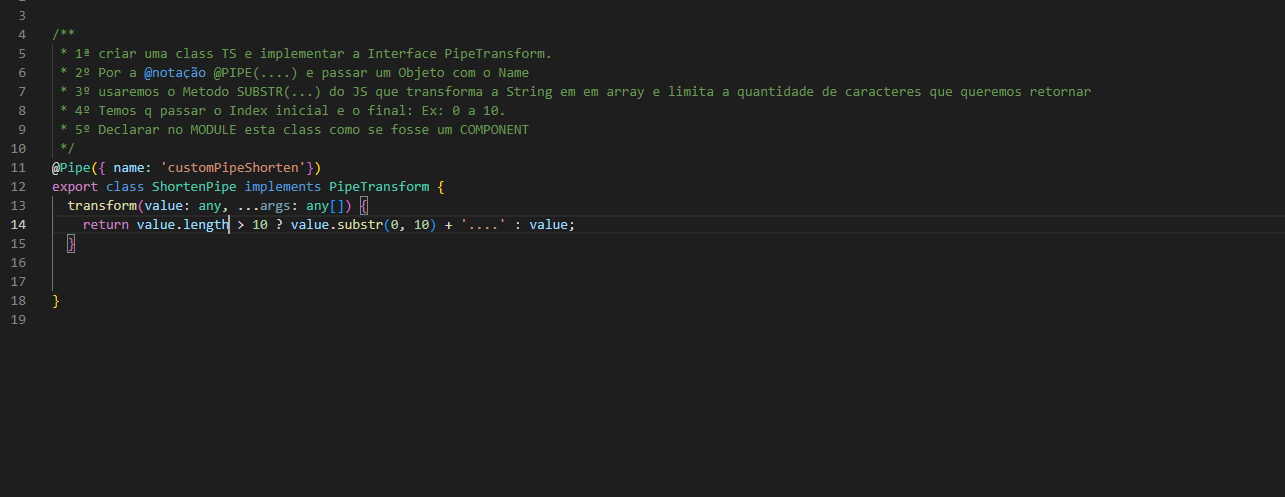
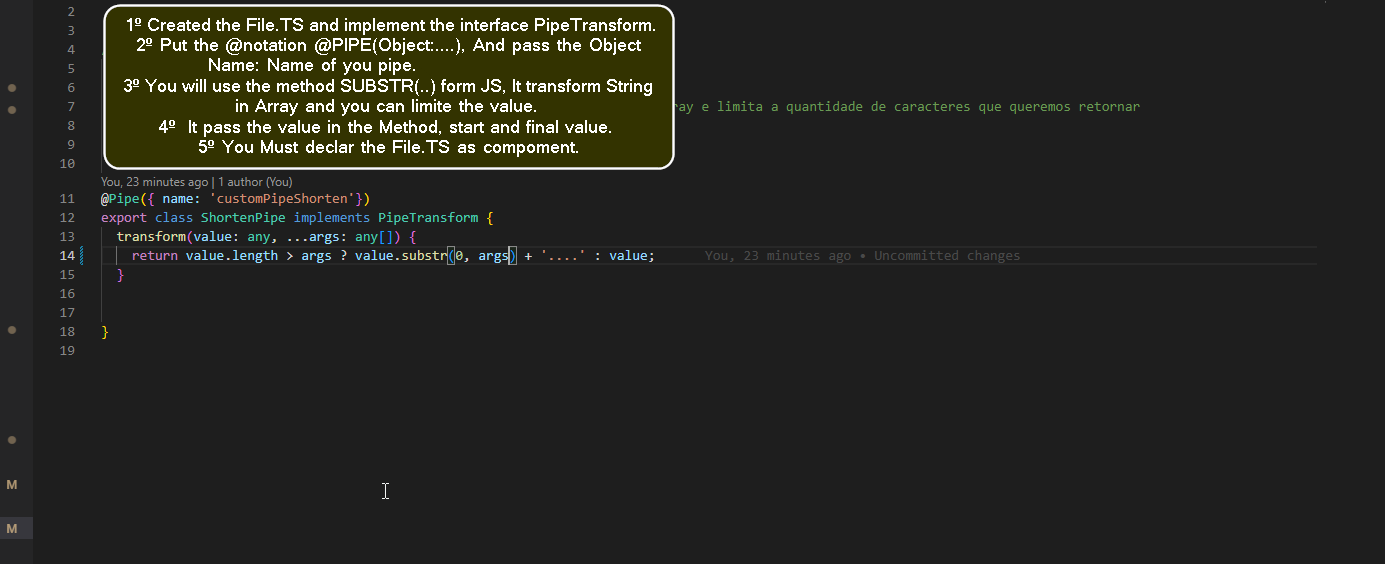
advanced

diff --git a/angular_training/src/app/pipes/pipes.component.html b/angular_training/src/app/pipes/pipes.component.html
@@ -29,6 +29,14 @@
                  Custom Pipes
                 </a>
               </li>
+              <li class="nav-item">
+                <a class="nav-link" routerLink="/pipes/pipes-customs-advanced">
+                  <svg xmlns="http://www.w3.org/2000/svg" width="16" height="16" fill="currentColor" class="bi bi-braces-asterisk" viewBox="0 0 16 16">
+                    <path fill-rule="evenodd" d="M1.114 8.063V7.9c1.005-.102 1.497-.615 1.497-1.6V4.503c0-1.094.39-1.538 1.354-1.538h.273V2h-.376C2.25 2 1.49 2.759 1.49 4.352v1.524c0 1.094-.376 1.456-1.49 1.456v1.299c1.114 0 1.49.362 1.49 1.456v1.524c0 1.593.759 2.352 2.372 2.352h.376v-.964h-.273c-.964 0-1.354-.444-1.354-1.538V9.663c0-.984-.492-1.497-1.497-1.6ZM14.886 7.9v.164c-1.005.103-1.497.616-1.497 1.6v1.798c0 1.094-.39 1.538-1.354 1.538h-.273v.964h.376c1.613 0 2.372-.759 2.372-2.352v-1.524c0-1.094.376-1.456 1.49-1.456v-1.3c-1.114 0-1.49-.362-1.49-1.456V4.352C14.51 2.759 13.75 2 12.138 2h-.376v.964h.273c.964 0 1.354.444 1.354 1.538V6.3c0 .984.492 1.497 1.497 1.6ZM7.5 11.5V9.207l-1.621 1.621-.707-.707L6.792 8.5H4.5v-1h2.293L5.172 5.879l.707-.707L7.5 6.792V4.5h1v2.293l1.621-1.621.707.707L9.208 7.5H11.5v1H9.207l1.621 1.621-.707.707L8.5 9.208V11.5h-1Z"/>
+                  </svg>
+                 Advanced Custom Pipes
+                </a>
+              </li>
 
 
             </ul>

diff --git a/angular_training/src/app/pipes/pipes.module.ts b/angular_training/src/app/pipes/pipes.module.ts
@@ -1,10 +1,11 @@
-import { ShortenPipe } from './pipes-customs/shorten-pipes.component';
+import { ShortenPipe } from './shorten-pipes.component';
 import { RouterModule } from '@angular/router';
 import { NgModule } from '@angular/core';
 import { CommonModule } from '@angular/common';
 import { PipesComponent } from './pipes.component';
 import { PipesBasicComponent } from './pipes-basic/pipes-basic.component';
 import { PipesCustomsComponent } from './pipes-customs/pipes-customs.component';
+import { PipesAdvancedComponent } from './pipes-advanced/pipes-advanced.component';
 
 
 
@@ -13,7 +14,8 @@ import { PipesCustomsComponent } from './pipes-customs/pipes-customs.component';
     PipesComponent,
     PipesBasicComponent,
     PipesCustomsComponent,
-    ShortenPipe
+    ShortenPipe,
+    PipesAdvancedComponent
 
   ],
   imports: [
@@ -22,6 +24,7 @@ import { PipesCustomsComponent } from './pipes-customs/pipes-customs.component';
       {path:'', component:PipesComponent },
       {path:'pipes-basics', component:PipesBasicComponent },
       {path:'pipes-customs', component:PipesCustomsComponent}
+      {path:'pipes-customs-advanced', component:PipesAdvancedComponent}
   ])
   ]
 })

diff --git a/angular_training/src/app/pipes/pipes-customs/pipes-customs.component.html b/angular_training/src/app/pipes/pipes-customs/pipes-customs.component.html
@@ -21,7 +21,7 @@
           <span class="badge">
             {{ server.status }}
           </span>
-          <strong>{{ server.name | customPipeShorten }}</strong> | {{ server.instanceType | uppercase}} | {{ server.started | date:
+          <strong>{{ server.name | customPipeShorten:8 }}</strong> | {{ server.instanceType | uppercase}} | {{ server.started | date:
           'fullDate' }}
         </li>
       </ul>
@@ -58,6 +58,12 @@
     <h3>Shorten Customs TS</h3>
     <div class="image">
       <img src="./../../../assets/img-pipes/02_Custom_Pipe_TS.png" alt="Arquivo Html">
+    </div>
+  </div>
+  <div class="col-xs-12 picture">
+    <h3>Pipe Module.TS</h3>
+    <div class="image">
+      <img src="./../../../assets/img-pipes/02_PipeModule.png" alt="Arquivo Html">
     </div>
   </div>
 

diff --git a/angular_training/src/app/pipes/shorten-pipes.component.ts b/angular_training/src/app/pipes/shorten-pipes.component.ts
@@ -11,7 +11,7 @@ import { Pipe, PipeTransform } from "@angular/core";
 @Pipe({ name: 'customPipeShorten'})
 export class ShortenPipe implements PipeTransform {
   transform(value: any, ...args: any[]) {
-    return value.length > 10 ? value.substr(0, 10) + '....' : value;
+    return value.length > args ? value.substr(0, args) + '....' : value;
   }
 
 

diff --git a/angular_training/src/app/pipes/pipes-customs/pipes-customs.component.css b/angular_training/src/app/pipes/pipes-customs/pipes-customs.component.css
@@ -1,6 +1,10 @@
 
 @import url('https://fonts.googleapis.com/css2?family=Josefin+Sans:wght@300&family=Lexend+Peta&family=Roboto:ital,wght@1,300&family=Sansita+Swashed:wght@300&display=swap');
 
+html {
+  margin: 0%;
+  padding: 0%;
+}
 .container {
   background: linear-gradient(68.15deg, #8ff88b 16.62%, #576469 85.61%);
   height: fit-content;

diff --git a/angular_training/src/app/pipes/pipes-advanced/pipes-advanced.component.ts b/angular_training/src/app/pipes/pipes-advanced/pipes-advanced.component.ts
@@ -1,0 +1,15 @@
+import { Component, OnInit } from '@angular/core';
+
+@Component({
+  selector: 'app-pipes-advanced',
+  templateUrl: './pipes-advanced.component.html',
+  styleUrls: ['./pipes-advanced.component.css']
+})
+export class PipesAdvancedComponent implements OnInit {
+
+  constructor() { }
+
+  ngOnInit(): void {
+  }
+
+}

diff --git a/angular_training/src/app/pipes/pipes-advanced/pipes-advanced.component.html b/angular_training/src/app/pipes/pipes-advanced/pipes-advanced.component.html
@@ -1,0 +1,1 @@
+<p>pipes-advanced works!</p>
